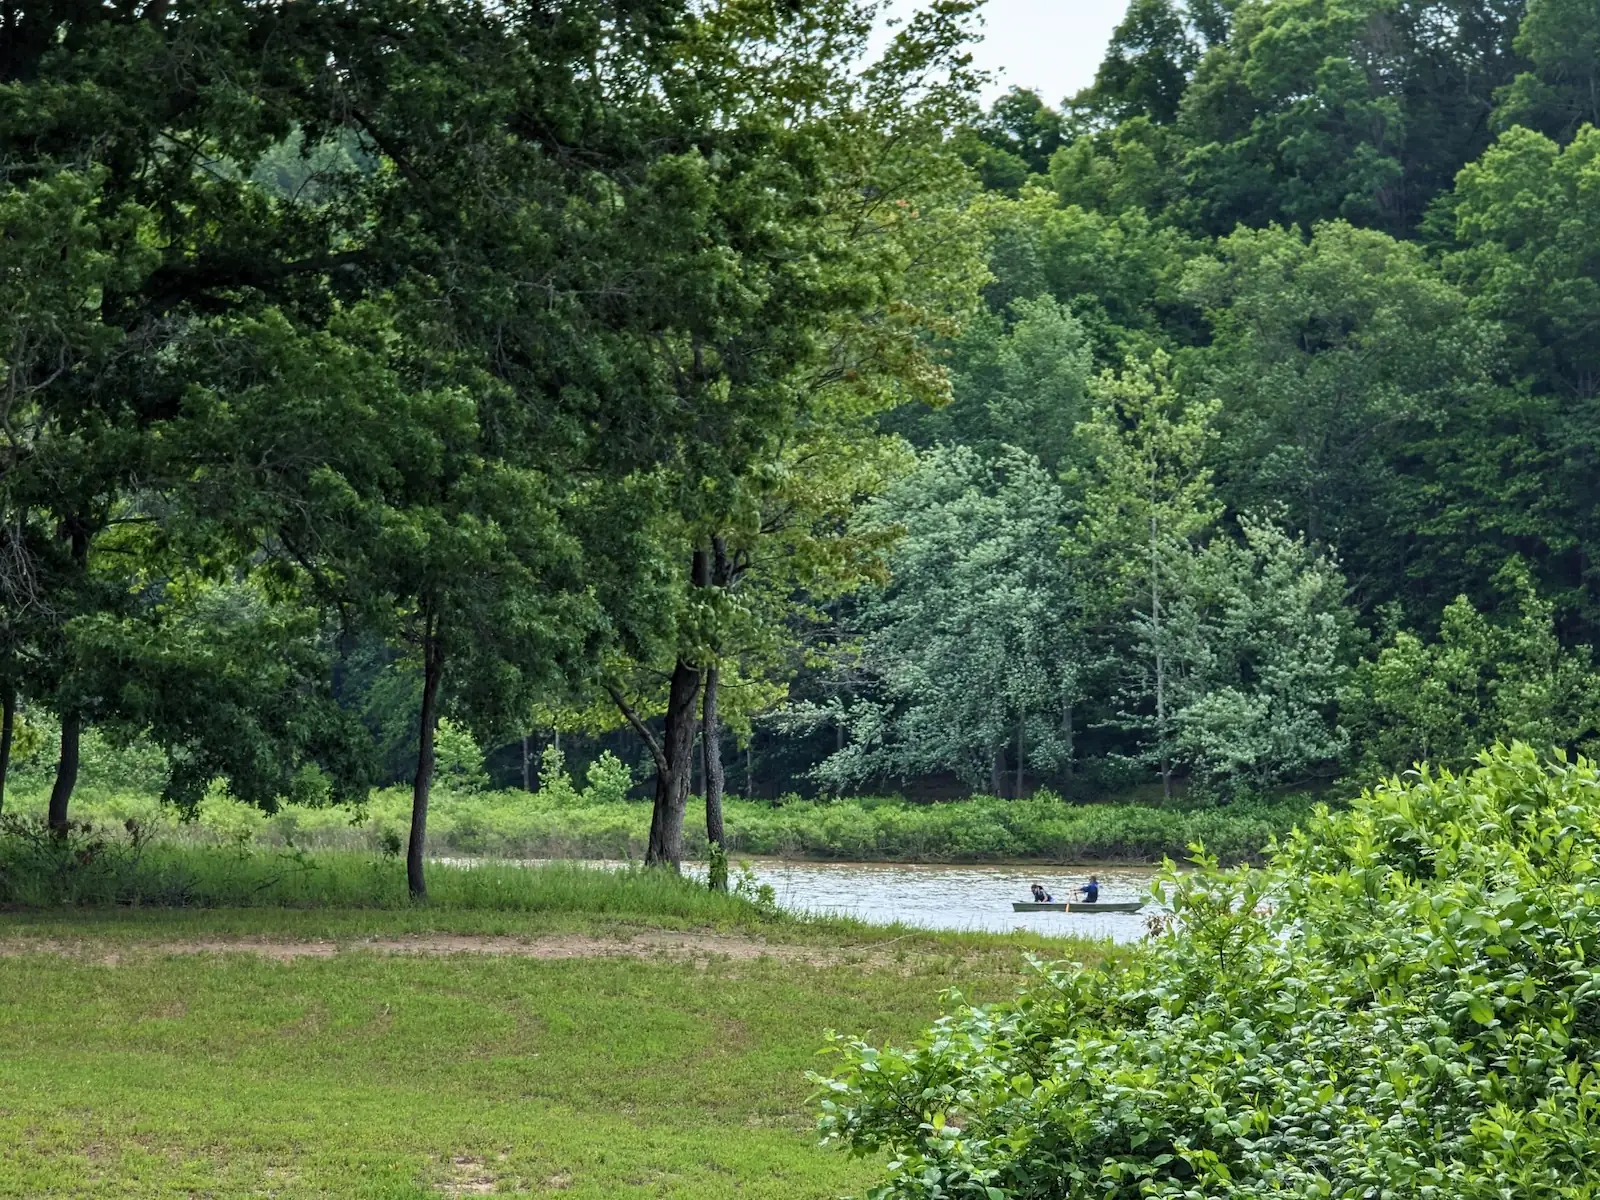
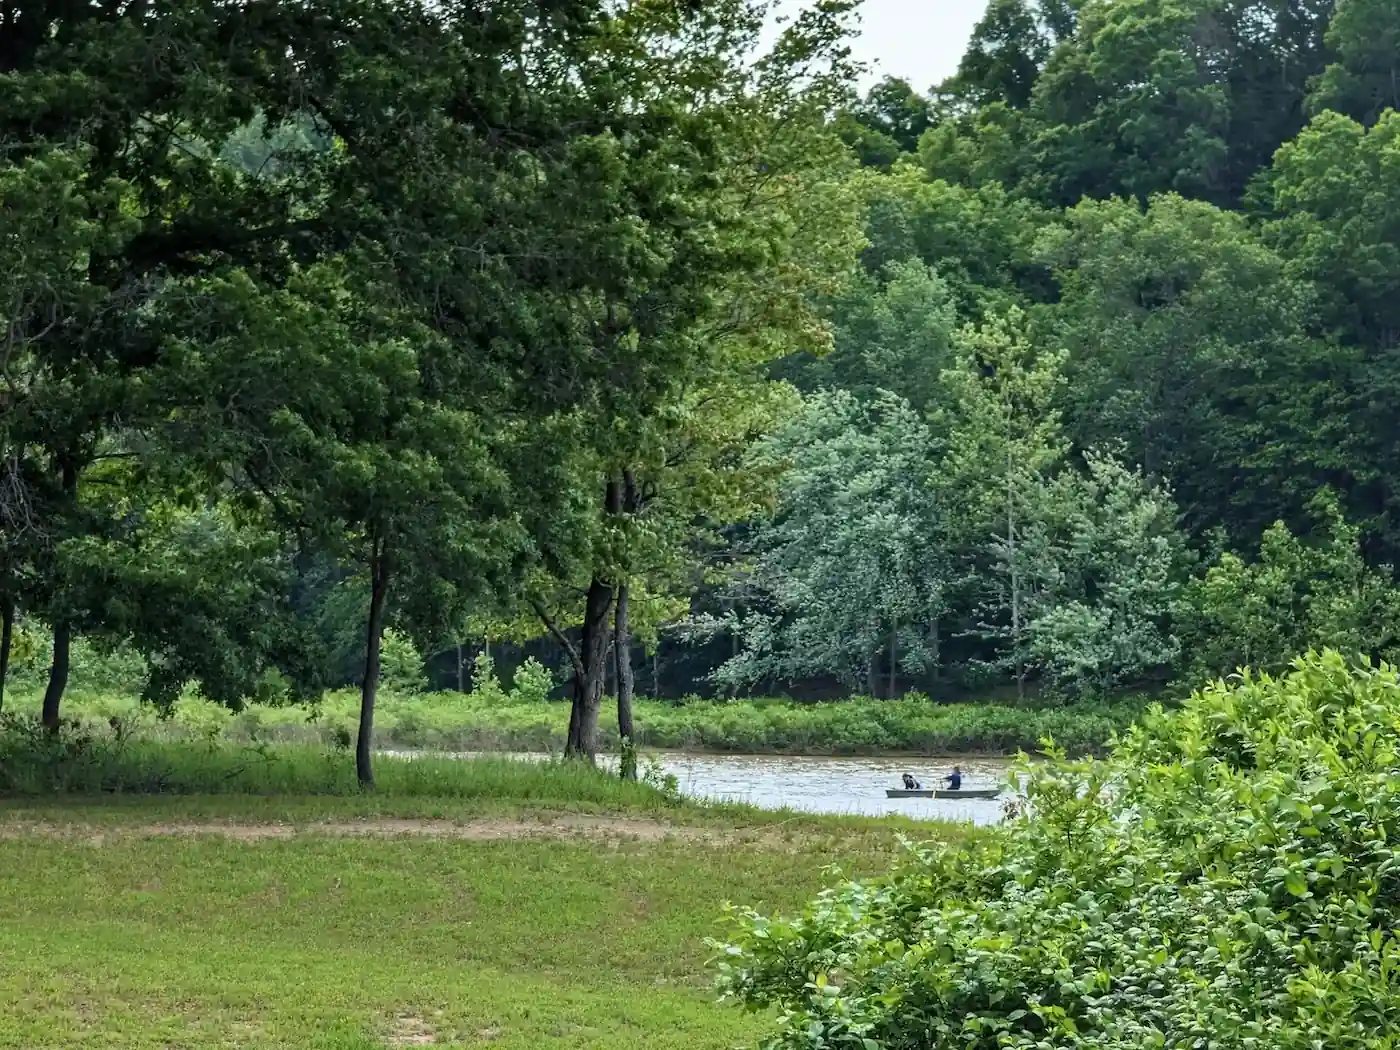
Edits: fall farms conner prairie, cars and coffee, summer day trips images

diff --git a/content/articles/pumpkin-patches-corn-mazes-near-indianapolis.md b/content/articles/pumpkin-patches-corn-mazes-near-indianapolis.md
@@ -197,7 +197,7 @@ Leashed pets are welcome on the grounds, though not in the edible crop areas or 
 - **Drive from Zionsville:** ~30 min (18 miles NE)
 - **Highlights:** Headless Horseman hayride, dry tubing hill, shows; barrel train (48 in. max height)
 
-Conner Prairie’s Headless Horseman Festival in Fishers runs **Thursday through Sunday, October 1–25, from 5–10 p.m.**
+Conner Prairie is an outdoor history museum in Fishers rather than a traditional farm, but its annual Headless Horseman Festival has become one of the Indianapolis area’s major fall attractions. The festival runs **Thursday through Sunday, October 1–25, from 5–10 p.m.**
 
 Festival admission is **$26 for nonmembers**. The Headless Horseman hayride costs an additional **$10** for both members and nonmembers. Members receive free festival admission but must reserve tickets. Festival admission is **$10** with an Access Pass, a discount program for Indiana residents receiving state assistance; a valid card and Indiana photo ID are required at the gate. Parking is free. Because festival capacity is limited, advance tickets are recommended.
 

diff --git a/content/events/cars-and-coffee.md b/content/events/cars-and-coffee.md
@@ -56,8 +56,8 @@ Cars are displayed throughout the outdoor areas around the Graham Rahal Performa
 
 | Feature | Detail |
 | :--- | :--- |
-| **Cars & Coffee Dates** | Saturday, August 29 & Saturday, September 26, 2026 |
-| **Cars & Coffee Time** | 9:00 AM – 11:00 AM EDT |
+| **Dates** | Saturday, August 29 & Saturday, September 26, 2026 |
+| **Time** | 9:00 AM – 11:00 AM EDT |
 | **Season Finale** | Saturday, October 24, 2026 — Trunk or Treat |
 | **Finale Time** | 4:00 PM – 6:00 PM EDT |
 | **Location** | [Graham Rahal Performance](https://maps.app.goo.gl/mczHw7vpnDz8dhUU7), 10850 Creek Way, Zionsville, IN 46077 |
